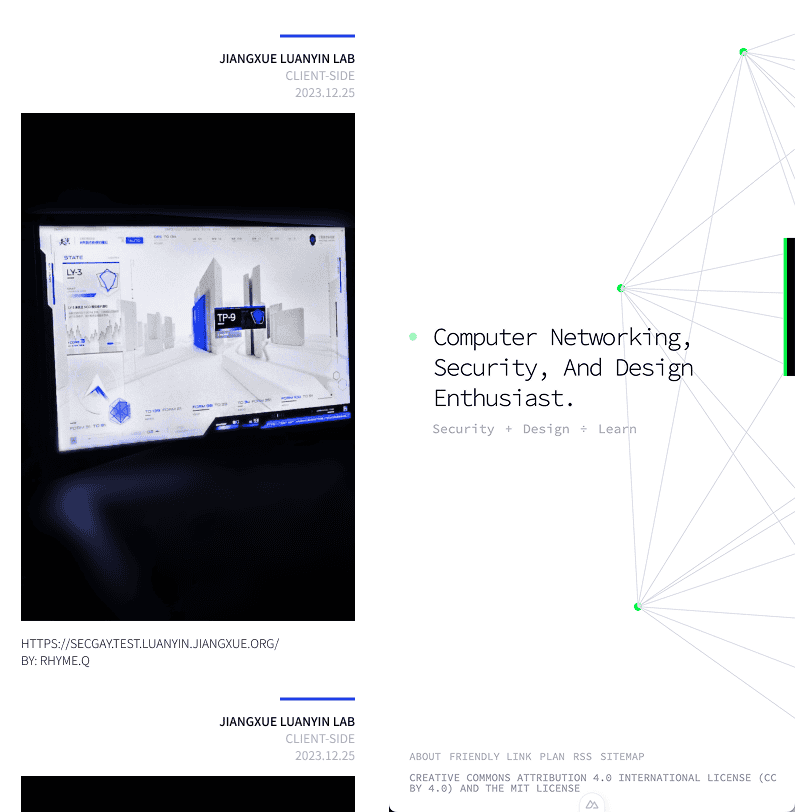
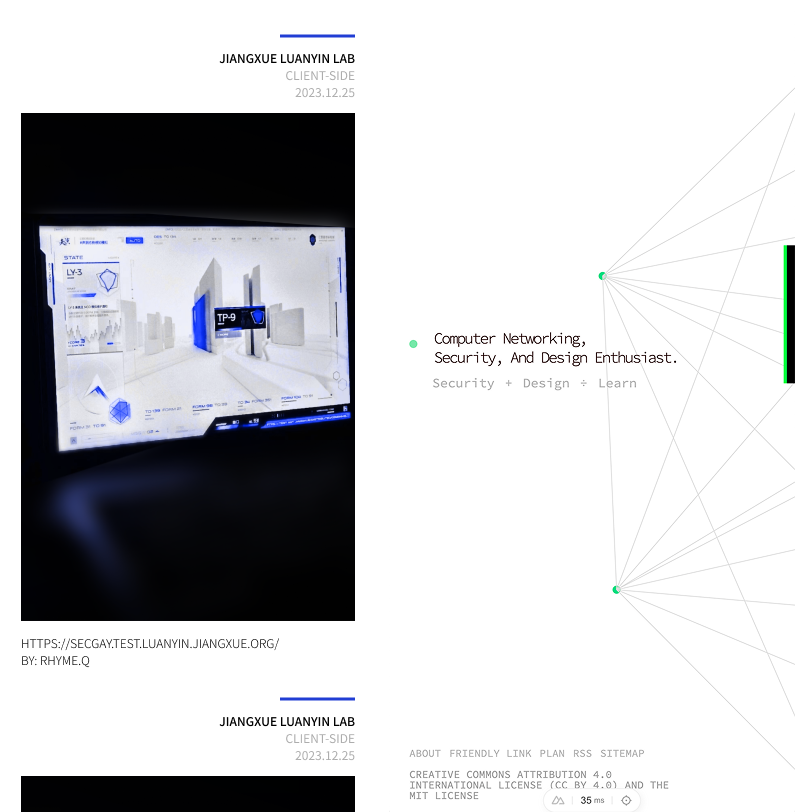
feat: add new layout

diff --git a/components/content/pageHome.vue b/components/content/pageHome.vue
@@ -153,6 +153,11 @@ const links = ref([
       line-height: initial;
       padding: 0;
       margin: 0;
+  
+
+      @media (max-width: 600px) {
+        font-size: 19px;
+      }
 
       @media (max-width: 400px) {
         font-size: 14px;
